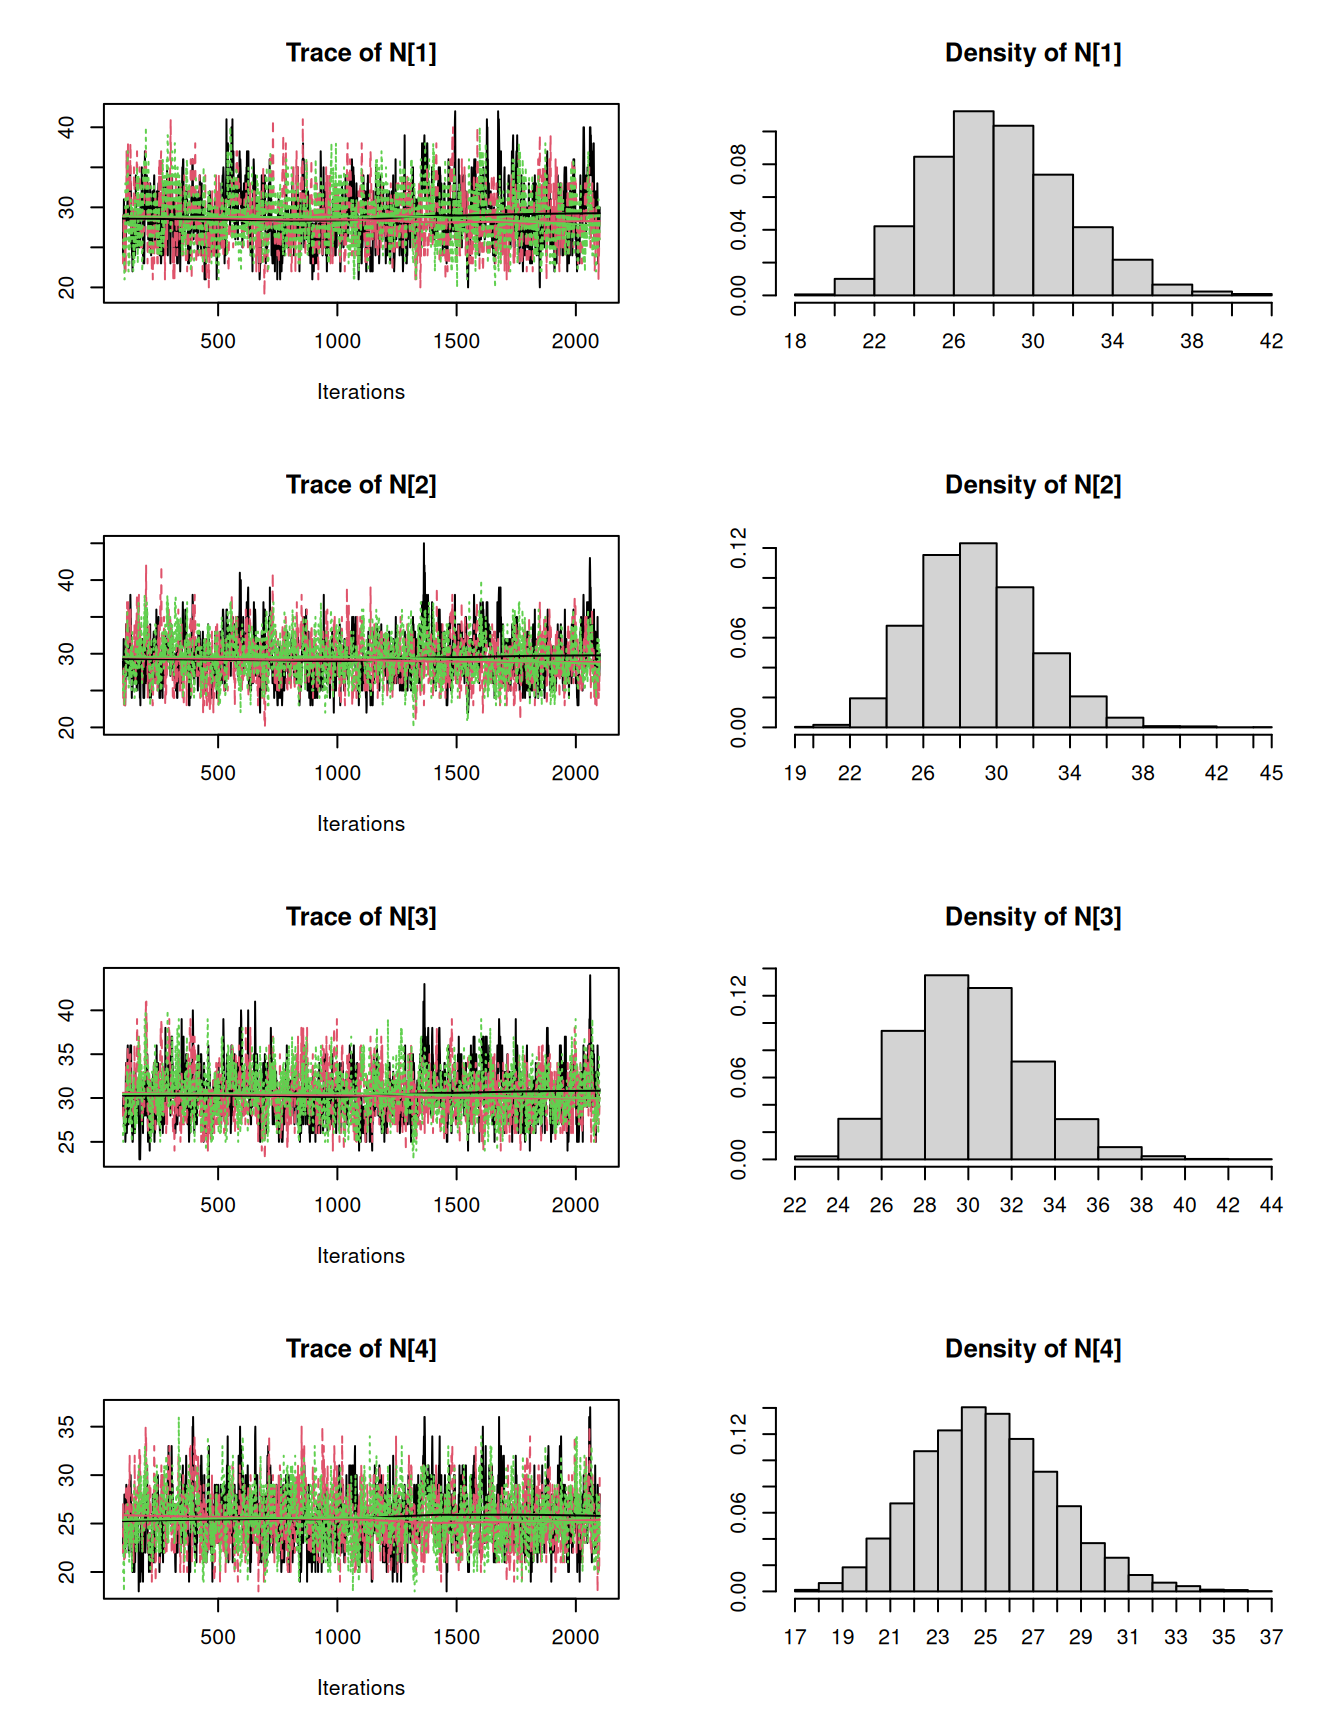
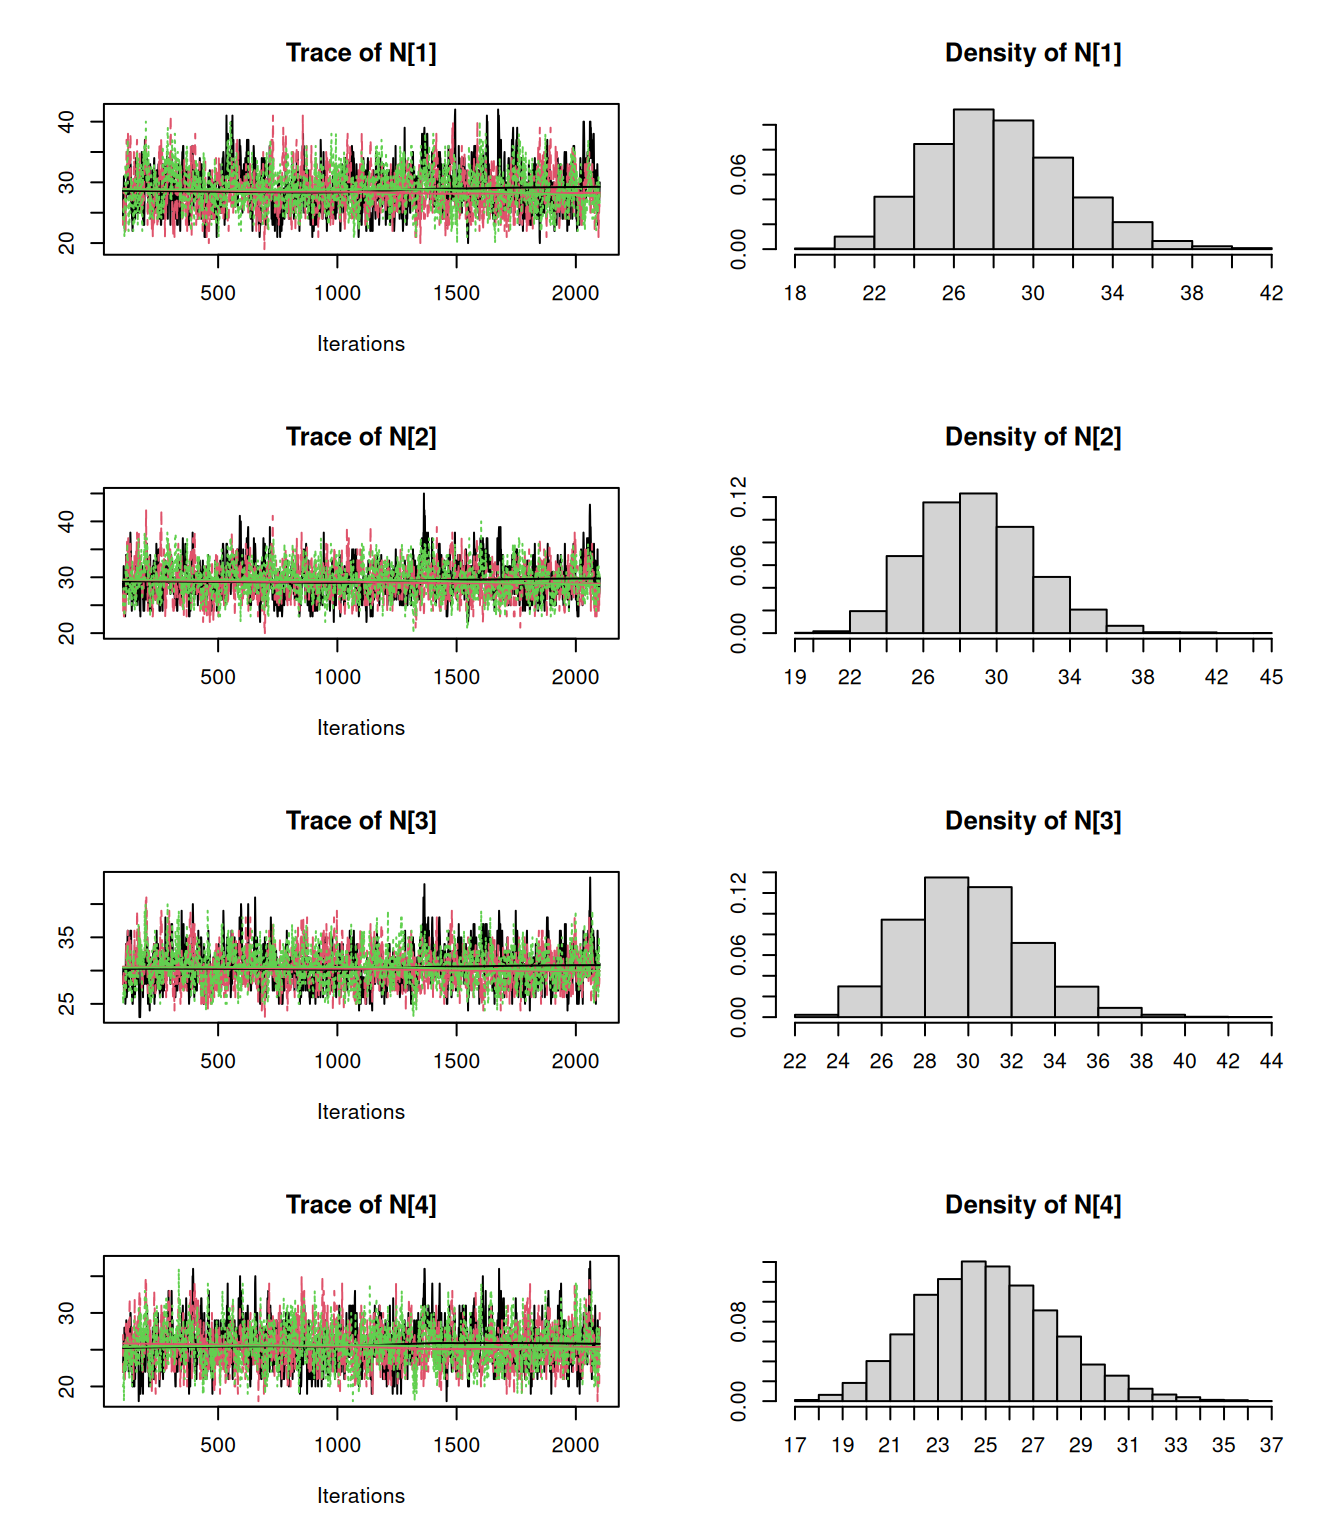
js

diff --git a/docs/lectures/JS/lecture-Jolly-Seber.html b/docs/lectures/JS/lecture-Jolly-Seber.html
@@ -635,25 +635,29 @@ Ntot &lt;- sum(everAlive)                     ## Super-population size
 
 <img data-src="lecture-Jolly-Seber_files/figure-revealjs/jc1-1.png" class="quarto-figure quarto-figure-center r-stretch" style="width:60.0%"></section>
 <section id="posterior-distributions-1" class="slide level2">
-<h2>Posterior distributions</h2>
+<h2><span style="font-size: 90%;">Posterior distributions</span></h2>
 <div style="font-size: 50%;">
-<div class="cell columns column-output-location" data-layout-align="center">
-<div class="column">
+<div class="columns">
+<div class="column" style="width:50%;">
+<div class="cell">
 <div class="code-copy-outer-scaffold"><div class="sourceCode cell-code" id="cb38"><pre class="sourceCode numberSource r number-lines code-with-copy"><code class="sourceCode r"><span id="cb38-1"><a></a><span class="fu">plot</span>(jags.post.samples1[,<span class="fu">c</span>(<span class="st">"N[1]"</span>, <span class="st">"N[2]"</span>, <span class="st">"N[3]"</span>, <span class="st">"N[4]"</span>)])</span></code></pre></div><button title="Copy to Clipboard" class="code-copy-button"><i class="bi"></i></button></div>
-</div><div class="column">
 <div class="cell-output-display">
-<div class="quarto-figure quarto-figure-center">
+<div>
 <figure>
-<p><img data-src="lecture-Jolly-Seber_files/figure-revealjs/jcN1-4-1.png" class="quarto-figure quarto-figure-center" style="width:60.0%"></p>
+<p><img data-src="lecture-Jolly-Seber_files/figure-revealjs/jcN1-4-1-1.png" style="width:90.0%"></p>
 </figure>
 </div>
 </div>
+</div>
+</div><div class="column" style="width:50%;">
+<div class="cell">
 <div class="code-copy-outer-scaffold"><div class="sourceCode cell-code" id="cb39"><pre class="sourceCode numberSource r number-lines code-with-copy"><code class="sourceCode r"><span id="cb39-1"><a></a><span class="fu">plot</span>(jags.post.samples1[,<span class="fu">c</span>(<span class="st">"N[5]"</span>, <span class="st">"N[6]"</span>, <span class="st">"N[7]"</span>, <span class="st">"N[8]"</span>)])</span></code></pre></div><button title="Copy to Clipboard" class="code-copy-button"><i class="bi"></i></button></div>
 <div class="cell-output-display">
-<div class="quarto-figure quarto-figure-center">
+<div>
 <figure>
-<p><img data-src="lecture-Jolly-Seber_files/figure-revealjs/jcN1-4-2.png" class="quarto-figure quarto-figure-center" style="width:60.0%"></p>
+<p><img data-src="lecture-Jolly-Seber_files/figure-revealjs/jcN1-4-2-1.png" style="width:90.0%"></p>
 </figure>
+</div>
 </div>
 </div>
 </div></div>
@@ -755,6 +759,7 @@ Ntot &lt;- sum(everAlive)                     ## Super-population size
 </div></section><section id="summary" class="slide level2">
 <h2>Summary</h2>
 <div style="font-size: 85%;">
+<p><br></p>
 <p>This is perhaps the most general approach to modeling population dynamics, especially when the model includes a movement process.</p>
 <div class="fragment">
 <p><br></p>
